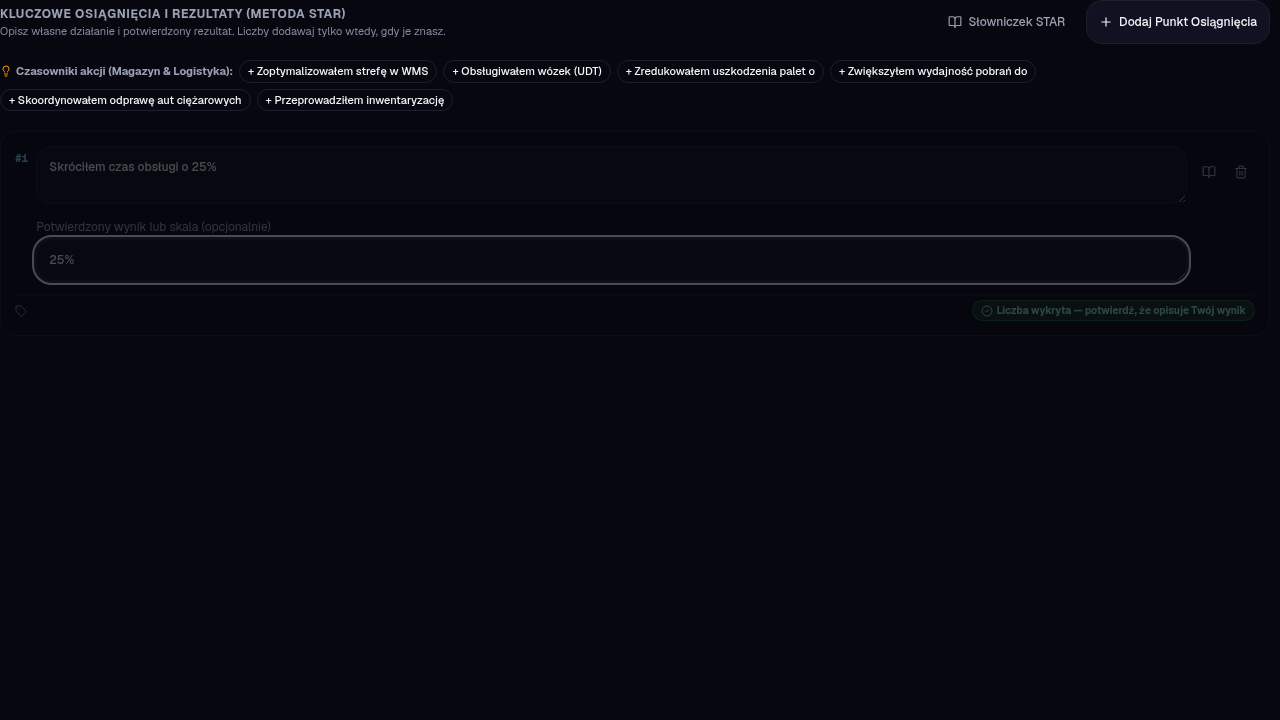
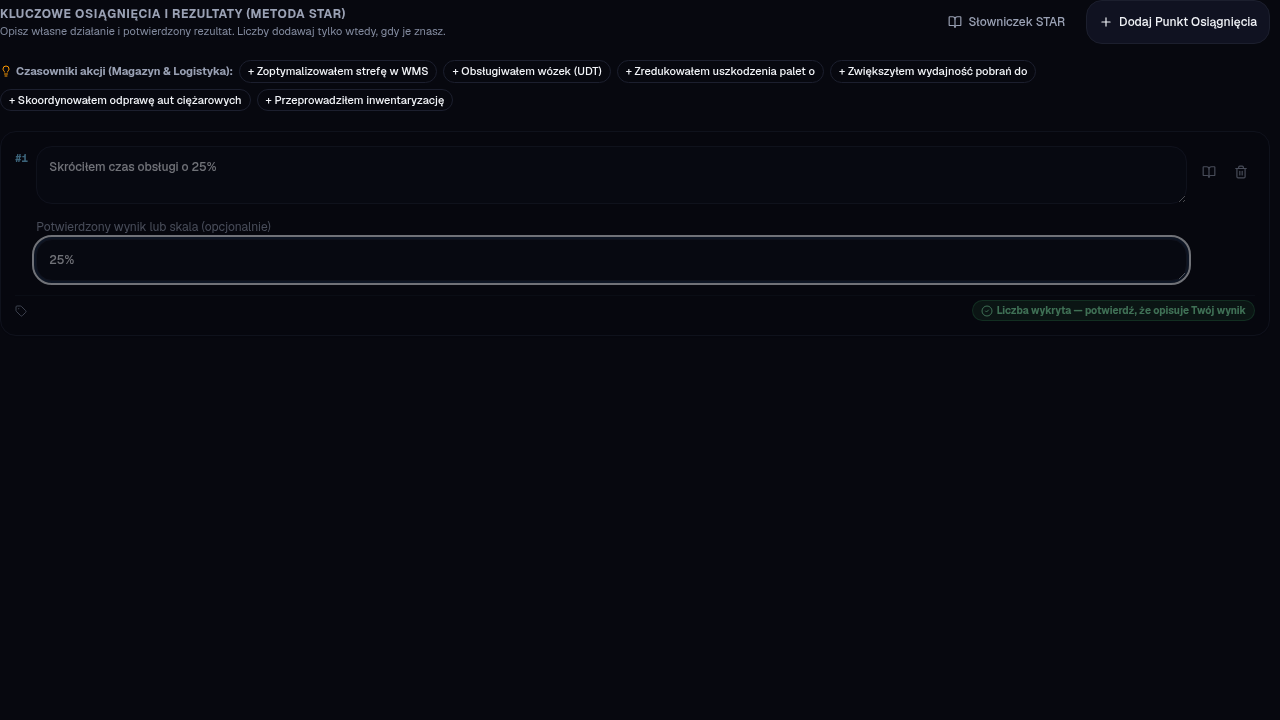
fix: detect missing renderer facts and dropped CV dates

Changed region(s): [[0.7812, 0.4278, 0.9688, 0.4583], [0.0312, 0.3056, 0.2188, 0.3361], [0.0312, 0.2139, 0.1562, 0.2444]]

diff --git a/src/lib/consistencyGuard/consistencyEngine.ts b/src/lib/consistencyGuard/consistencyEngine.ts
@@ -332,6 +332,7 @@ export interface ProjectedClaimItem {
   claimedDateRange?: ClaimDateRange | string;
   claimedTags?: string[];
   claimedMetric?: string;
+  projectionMissing?: boolean;
 }
 
 /** Walidujemy dane wyjściowe, bo porównanie dwóch kopii źródła ukrywa błąd renderera. */
@@ -344,16 +345,22 @@ export function projectRendererOutputs(
   const hudMetrics = new Map(hud.verifiedMetrics.map(item => [item.claimId, item.value]));
   // W HUD brak pozycji jest również brakiem metryki, nie powodem pominięcia kontroli.
   const hudClaimIds = new Set([...activeClaimIds, ...hudMetrics.keys()]);
+  const cvClaimIds = new Set(cv.sections.flatMap(section => section.items.map(item => item.claimId)));
+  const pitchClaimIds = new Set(pitch.profileStatements.map(item => item.claimId));
+  const missingItems = (sectionId: string, sectionName: string, emittedIds: Set<string>): ProjectedClaimItem[] =>
+    [...new Set(activeClaimIds)].filter(id => !emittedIds.has(id)).map(claimId => ({
+      sectionId, sectionName, claimId, projectionMissing: true,
+    }));
   return [
     ...cv.sections.flatMap(section => section.items.map(item => ({
       sectionId: section.id,
       sectionName: section.title,
       claimId: item.claimId,
-      ...(item.dateRangeDisplay === 'Daty niepodane w profilu'
-        ? {} : { claimedDateRange: item.dateRangeDisplay }),
+      claimedDateRange: item.dateRangeDisplay === 'Daty niepodane w profilu' ? '' : item.dateRangeDisplay,
       claimedTags: item.tags,
       claimedMetric: item.metric,
     }))),
+    ...missingItems('cv', 'Renderer CV', cvClaimIds),
     ...Array.from(hudClaimIds, claimId => ({
       sectionId: 'hud',
       sectionName: 'Renderer HUD',
@@ -368,6 +375,7 @@ export function projectRendererOutputs(
       claimedTags: item.tags,
       claimedMetric: item.metric,
     })),
+    ...missingItems('pitch', 'Renderer Pitch', pitchClaimIds),
   ];
 }
 
@@ -464,8 +472,24 @@ export function validateConsistency(
         continue;
       }
 
-      // Porównanie dat z faktami źródłowymi, bez potwierdzania nieczytelnych danych.
-      if (item.claimedDateRange) {
+      if (item.projectionMissing) {
+        const missingProjection: ConsistencyAlert = {
+          id: `alert_projection_missing_${secKey}_${item.claimId}`,
+          claimId: item.claimId,
+          sectionId: secKey,
+          type: 'PROJECTION_MISSING',
+          severity: 'ALERT',
+          title: 'Brak faktu w podglądzie',
+          message: `Podgląd pomija aktywny fakt „${sourceClaim.sourceProject}”. Sprawdź dokument przed użyciem.`,
+        };
+        alerts.push(missingProjection);
+        sectionsMap[secKey].alerts.push(missingProjection);
+        sectionsMap[secKey].isConsistent = false;
+        continue;
+      }
+
+      // Jawnie pusty zakres CV porównujemy z datami źródła. HUD/Pitch nie projektują dat.
+      if (item.claimedDateRange !== undefined && (item.claimedDateRange || sourceClaim.dateRange)) {
         const sourceYears = parseDateRangeToYears(sourceClaim.dateRange);
         const projectedYears = parseDateRangeToYears(item.claimedDateRange);
 

diff --git a/src/lib/__tests__/consistencyGuard.test.ts b/src/lib/__tests__/consistencyGuard.test.ts
@@ -274,6 +274,32 @@ describe('ConsistencyGuard Engine', () => {
       expect(result.sections.hud.isConsistent).toBe(false);
     });
 
+    it.each(['cv', 'pitch'])('wykrywa usunięcie całego faktu bez metryki z %s', (renderer) => {
+      const vault = createEmptyVault();
+      vault.claims = [{ id: 'plain', sourceProject: 'Projekt testowy', tags: [] }];
+      const cv = renderCvFromClaims(vault);
+      const pitch = renderPitchFromClaims(vault);
+      if (renderer === 'cv') cv.sections = [];
+      else pitch.profileStatements = [];
+      const result = validateConsistency(vault, {
+        projectedItems: projectRendererOutputs(cv, renderHudFromClaims(vault), pitch, ['plain']),
+      });
+      expect(result.sections[renderer].isConsistent).toBe(false);
+      expect(result.isConsistent).toBe(false);
+    });
+
+    it('wykrywa usunięcie daty CV zamiast traktować sentinel jako brak kontroli', () => {
+      const vault = createEmptyVault();
+      vault.claims = [{ id: 'dated', sourceProject: 'Projekt testowy', tags: [], dateRange: '2020-2022' }];
+      const cv = renderCvFromClaims(vault);
+      cv.sections[0].items[0].dateRangeDisplay = 'Daty niepodane w profilu';
+      const result = validateConsistency(vault, {
+        projectedItems: projectRendererOutputs(cv, renderHudFromClaims(vault), renderPitchFromClaims(vault), ['dated']),
+      });
+      expect(result.sections.cv.isConsistent).toBe(false);
+      expect(result.alerts.some(item => item.type === 'INVALID_DATE_RANGE')).toBe(true);
+    });
+
     it('akceptuje rzeczywiste wyjścia rendererów bez metryk i dat', () => {
       const vault = createEmptyVault();
       vault.claims = [{ id: 'plain', sourceProject: 'Projekt testowy', tags: [] }];

diff --git a/src/lib/consistencyGuard/types.ts b/src/lib/consistencyGuard/types.ts
@@ -9,6 +9,7 @@ export type ConsistencyAlertType =
   | 'METRIC_MISMATCH'
   | 'SKILL_CONTRADICTION'
   | 'CLAIM_NOT_FOUND'
+  | 'PROJECTION_MISSING'
   | 'INVALID_DATE_RANGE'
   | 'CAREER_GAP'
   | 'LOCATION_CONFLICT'

diff --git a/scripts/e2e-consistency-renderer-review.py b/scripts/e2e-consistency-renderer-review.py
@@ -31,16 +31,22 @@ async def main():
         async def changed_renderer(route):
             response = await route.fetch()
             body = await response.text()
-            marker = "metric: claim.metric,"
-            assert marker in body, "Nie znaleziono miejsca kontrolowanej mutacji renderer CV"
-            body = body.replace(marker, 'metric: claim.metric === "20%" ? "40%" : claim.metric,', 1)
+            mutations = {
+                'metric': ('metric: claim.metric,', 'metric: claim.metric === "20%" ? "40%" : claim.metric,'),
+                'missing-cv': ('sections: [experiencesSection, projectsSection]', 'sections: []'),
+                'missing-pitch': ('profileStatements.push({', 'if (false) profileStatements.push({'),
+                'missing-date': ('const dateRangeDisplay = formatClaimDateRange(claim.dateRange);', 'const dateRangeDisplay = "Daty niepodane w profilu";'),
+            }
+            marker, replacement = mutations[scenario]
+            assert marker in body, "Nie znaleziono miejsca kontrolowanej mutacji renderera"
+            body = body.replace(marker, replacement, 1)
             await route.fulfill(response=response, body=body)
-        for baseline in [True, False]:
+        for scenario, baseline in [(case, old) for case in ['metric', 'missing-cv', 'missing-pitch', 'missing-date'] for old in [True, False]]:
             context = await browser.new_context()
             await context.route("**/src/lib/consistencyGuard/consistencyEngine.ts*", changed_renderer)
             page = await context.new_page()
             await page.goto(BASE, wait_until="domcontentloaded")
-            await page.evaluate("""async (baseline) => {
+            await page.evaluate("""async ({baseline, scenario}) => {
                 const [React, ReactDOM, view, {createEmptyVault}] = await Promise.all([
                     import('/node_modules/.vite/deps/react.js'),
                     import('/node_modules/.vite/deps/react-dom_client.js'),
@@ -50,16 +56,20 @@ async def main():
                     import('/src/lib/sampleVault.ts')
                 ]);
                 const vault = createEmptyVault();
-                vault.claims = [{id:'metric', sourceProject:'Syntetyczny monter', tags:[], metric:'20%'}];
+                vault.claims = [{id:'metric', sourceProject:'Syntetyczny monter', tags:[],
+                    ...(scenario === 'metric' ? {metric:'20%'} : {}),
+                    ...(scenario === 'missing-date' ? {dateRange:'2020-2022'} : {})}];
                 document.body.innerHTML = '<main id="release-proof"></main>';
                 (ReactDOM.createRoot ?? ReactDOM.default.createRoot)(document.getElementById('release-proof')).render(
                     (React.createElement ?? React.default.createElement)(view.ConsistencyGuardView, {vault}));
-            }""", baseline)
+            }""", {'baseline':baseline, 'scenario':scenario})
             await page.get_by_role("heading", name="Kontrola danych", exact=True).wait_for()
-            await page.get_by_text("40%", exact=True).first.wait_for()
+            if scenario == 'metric':
+                await page.get_by_text("40%", exact=True).first.wait_for()
             count = await page.get_by_role("alert").count()
-            await page.screenshot(path=str(OUT / ("before.png" if baseline else "after.png")), full_page=True)
-            results.append({"case": "CV renderer changes 20% to 40%",
+            filename = ("before" if baseline else "after") + ('' if scenario == 'metric' else '-'+scenario) + '.png'
+            await page.screenshot(path=str(OUT / filename), full_page=True)
+            results.append({"case": scenario,
                             "baseline": baseline, "alert_count": count,
                             "expected_alert_present": count > 0})
             assert (count == 0) if baseline else (count > 0)

diff --git a/docs/04.09.2026.md b/docs/04.09.2026.md
@@ -1,5 +1,14 @@
 # Audyt Kierivo — 04.09.2026
 
+## 08.10.2026 — domknięcie kolejnych dwóch uwag review #141
+
+- Review head `42e8616` wykazało brak kontroli usuniętej pozycji CV/Pitch oraz daty CV. Przed naprawą trzy nowe regresje FAIL (57 dotychczasowych PASS); po minimalnej zmianie focused 60/60 PASS.
+- Helper dodaje jawne projekcje brakujących aktywnych ID CV/Pitch; walidator zgłasza `PROJECTION_MISSING` także dla faktu bez metryki. Jawnie pustą datę CV porównuje z datą źródła, a brak dat po obu stronach nadal jest dozwolony. HUD/Pitch nie deklarują projekcji dat.
+- Właściciel zaakceptował pozostawienie automatycznego wdrożenia po merge — wcześniejsza blokada bramki production przestała być wymagana. Nadal obowiązują aktualne CI i review przed scaleniem.
+- Świeże CI wcześniejszego head `42e8616`: pięć kontroli SUCCESS, Supabase Preview SKIPPED; wynik nie obejmuje następnej poprawki. Lokalny Playwright rozszerzono o usunięcie CV, Pitch i daty, z reprodukcją przed/po.
+- Produkcyjny Playwright APIRequestContext z weryfikacją TLS potwierdził identyczne HTML/JS/CSS i zdrowe API na `kierivo.com` oraz `www.kierivo.com` (08.10, 18:44 UTC); pierwszy timeout domeny głównej nie powtórzył się. To dowód HTTP i zasobów, nie browser flow ani aktualnego obrazu/SHA.
+- Odbiór poprawki: pełne Vitest 235 plików, 2655 PASS + 1 pominięty PDF (wcześniej odebrany osobno); lint/TypeScript 0 błędów/202 ostrzeżenia, build klienta i serwera PASS. Playwright: cztery awarie renderera mają 0 alertów przed zmianą i 1 po zmianie; jawna edycja 25% nadal PASS. [Raport](evidence/consistency-renderer-review-2026-10-08/report.json) i zrzuty before/after-missing-* w tym samym katalogu. Świeży Supabase advisor z 18:50 UTC nadal zgłasza wyłączoną ochronę ujawnionych haseł — ADR-127 nadal blocker.
+
 ## 08.10.2026 — odbiór lokalny poprawki review #141
 
 Poniższe wyniki zastępują ograniczenia wcześniejszego szkicu: odzyskano pełny checkout i dostęp sieciowy. Baza poprawki pozostaje `06064b33a786dd54dd50ef1548ccbf47838cab0a`; main `763338b8a8f71968e7df5796c7f5753b688022f8`. Wyniki dotyczą lokalnej poprawki, nie wdrożenia.
